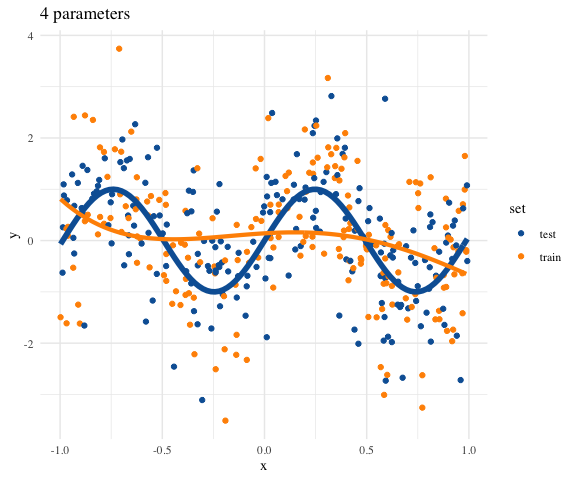
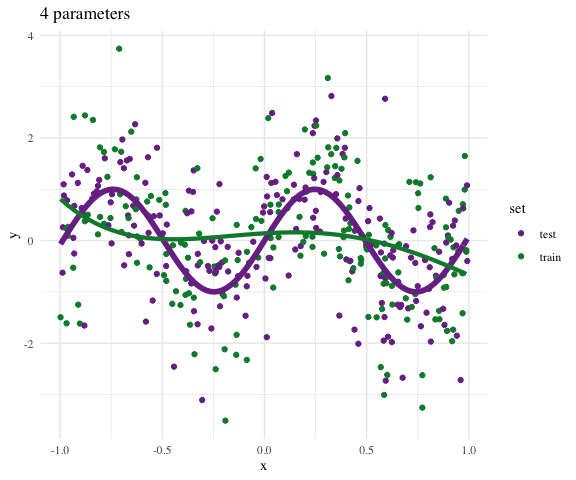
change colors, add office hours

diff --git a/syllabus.html b/syllabus.html
@@ -325,8 +325,8 @@ Website: <a href="https://dajmcdon.github.io/" class="uri">https://dajmcdon.gith
 Slack: <span class="citation">@dajmcdon</span><br />
 Email: <a href="mailto:dajmcdon@indiana.edu" class="email">dajmcdon@indiana.edu</a></p>
 <p><strong>Office hours</strong>:<br />
-Me: TBA<br />
-Joe: TBA</p>
+Me: 1–2 Wednesday<br />
+Joe: 2–3:30 Wednesday</p>
 <p><strong>Course webpage</strong>:<br />
 WWW: <a href="https://stats-432sp2020.github.io/" class="uri">https://stats-432sp2020.github.io/</a><br />
 Github: <a href="https://github.com/stats-432sp2020" class="uri">https://github.com/stats-432sp2020</a><br />

diff --git a/syllabus.md b/syllabus.md
@@ -16,8 +16,8 @@ Slack: @dajmcdon
 Email: dajmcdon@indiana.edu  
 
 __Office hours__:  
-Me: TBA  
-Joe: TBA
+Me: 1--2 Wednesday  
+Joe: 2--3:30 Wednesday
 
 __Course webpage__:    
 WWW: https://stats-432sp2020.github.io/  
